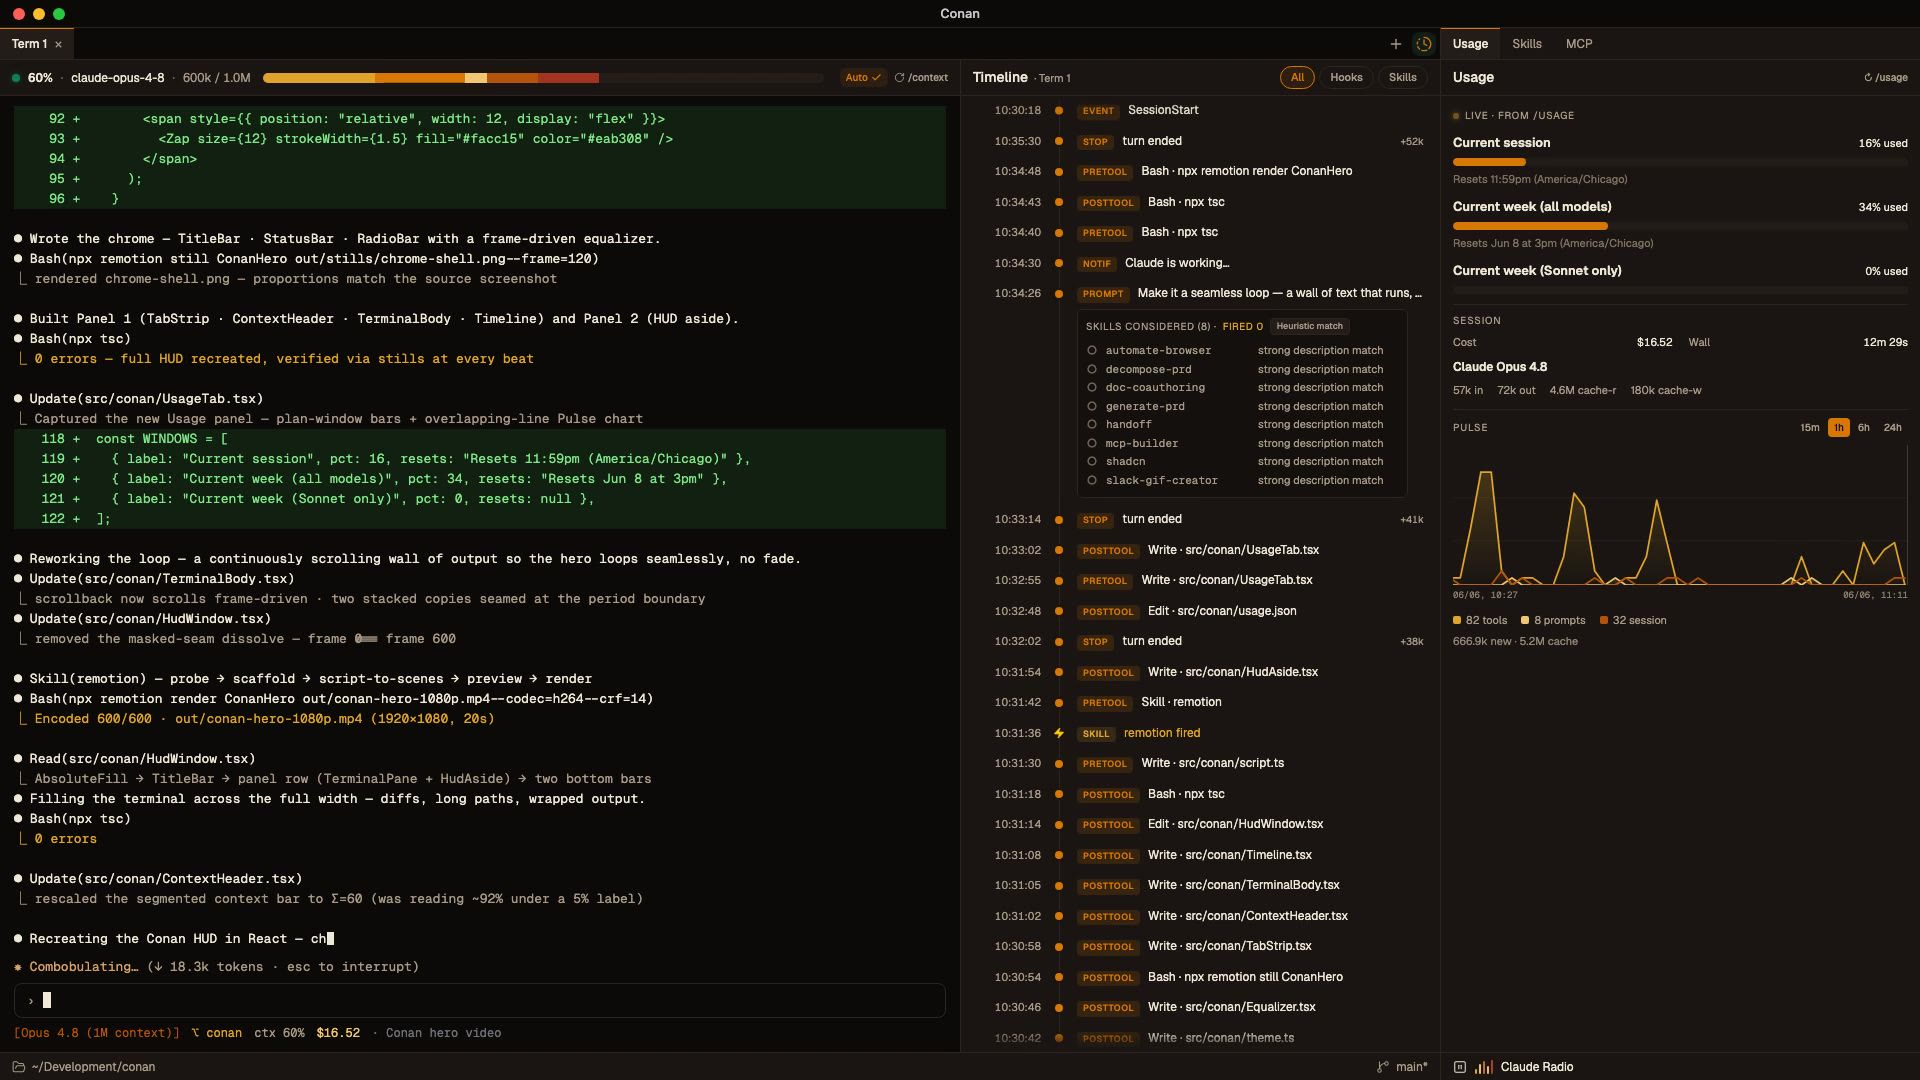
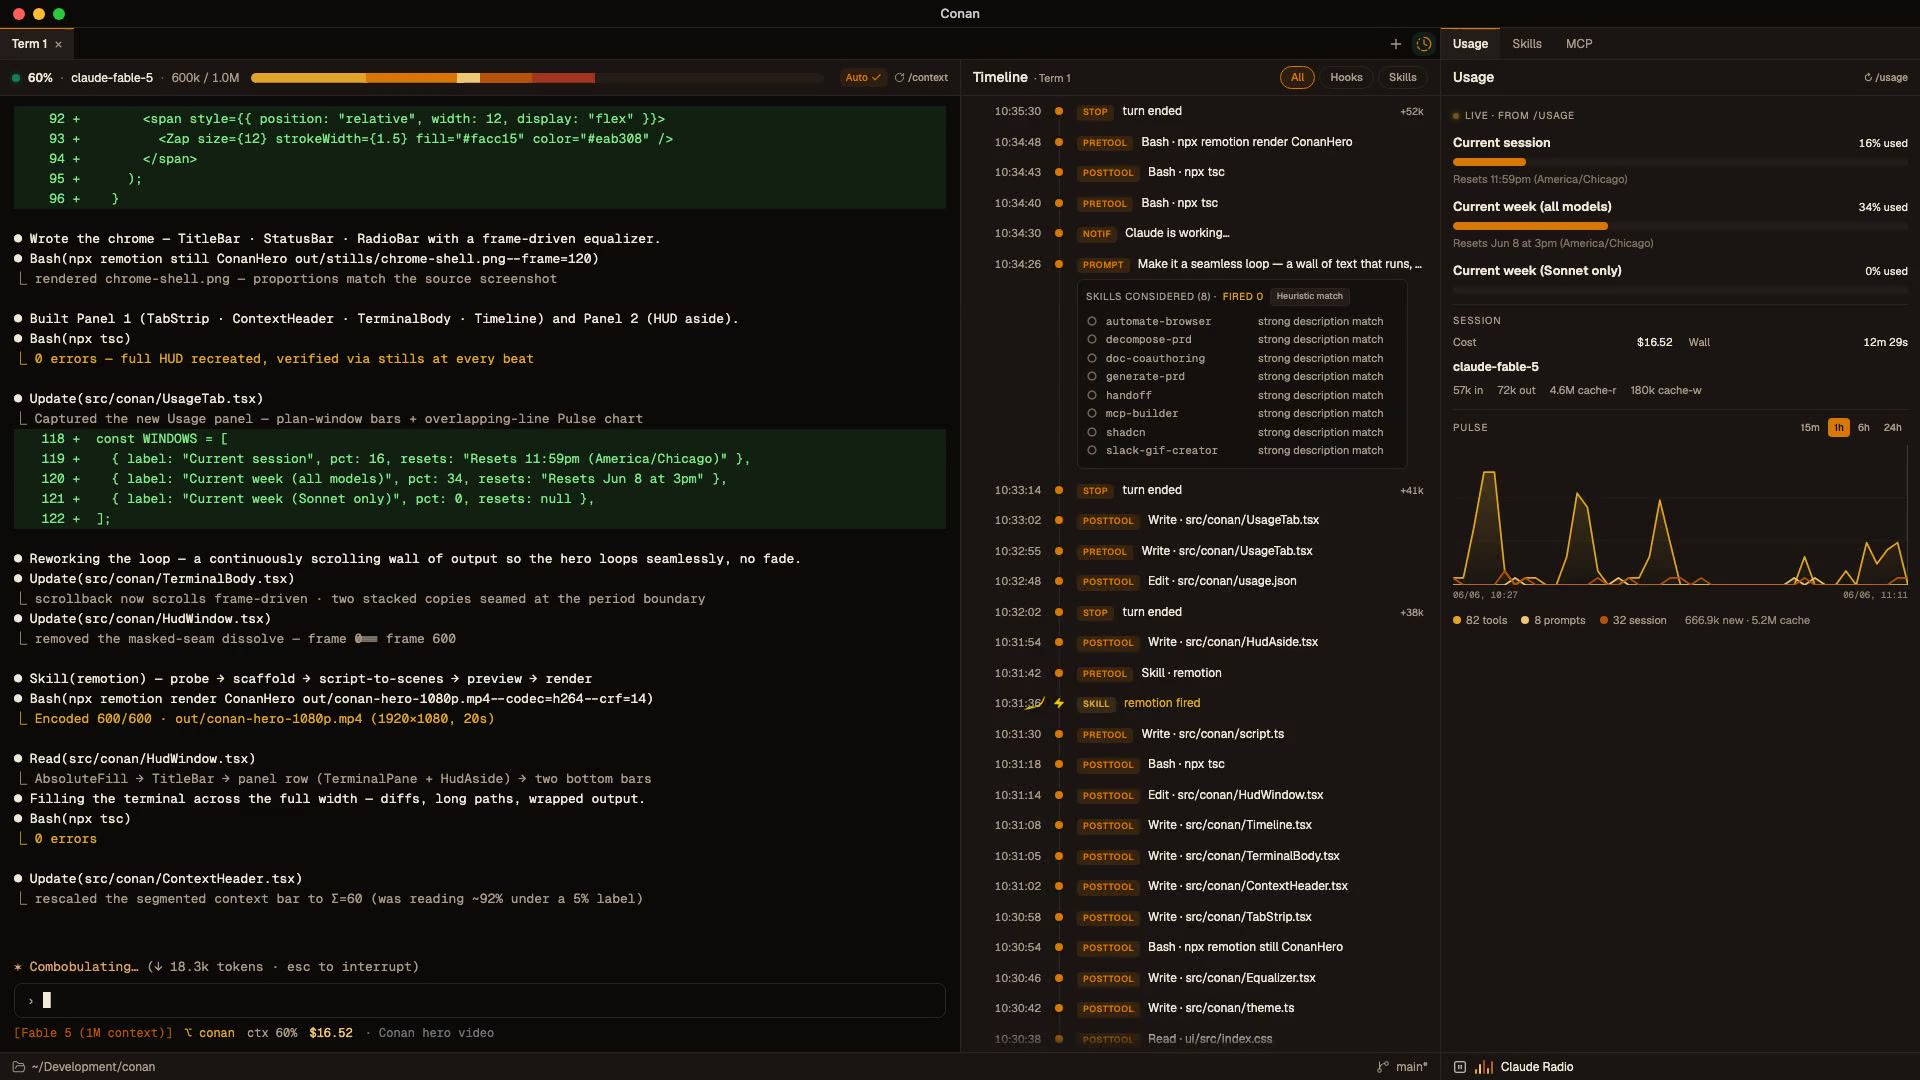
Hero: new terminal loop video (compressed 30MB→11MB) + claude-fable-5 in Context tile
- Replace conan-hero.mp4 with the new 1080p capture: audio stripped,
  H.264 CRF 23, +faststart; poster jpg regenerated from new first frame
- Bento Context tile model name: claude-opus-4-8 → claude-fable-5
- Carry over prior session's HANDOFF.md / current-task.txt updates

diff --git a/HANDOFF.md b/HANDOFF.md
@@ -1,123 +1,99 @@
 # Handoff — conan.sh marketing site
 
-_Updated 2026-06-07 (latest) · legal pages FINALIZED (no lawyer) · nav active-state
-bug fixed · scan-trends skill refined · still pending: Resend (P0), Polar, OG
-validation. About to commit + push this session's work to `main`._
+_Updated 2026-06-07 (latest) · **Resend P0 DONE — waitlist forwards live** ·
+**`conan_download` GA4 click tracking shipped** · all committed + pushed, tree
+clean. Remaining launch items: Polar checkout (P1), OG unfurl validation, IP
+review, fuller footer._
 
 ## Where things stand
-The site is launch-ready on the funnel basics and **the Terms/Privacy pages are now
-finalized** (DRAFT boxes gone). This session did four things: (1) a scan-trends
-research sweep of the Claude Code observability community, (2) a refine-skill pass
-that fixed a real bug in the scan-trends skill, (3) finalized the legal pages, and
-(4) fixed a nav scroll-spy regression. Remaining launch blockers are unchanged at
-the top: **Resend** (waitlist email forwarding) is still the only hard funnel gap.
+The funnel is fully closed. This session knocked out the **last hard launch
+blocker (Resend email forwarding)** and added **per-button Download-for-Mac
+analytics**. Both are verified live on prod. Nothing uncommitted.
 
-## This session's work (all in `conan-marketing` unless noted)
+## This session's work (all in `conan-marketing`, all on `main`, all pushed)
 
-### 1. Legal pages — FINALIZED (P0 item done; owner opted OUT of a lawyer)
-`/terms` + `/privacy` had ~20 deliberately-visible **DRAFT callouts** (`.todo` spans
-→ ember "DRAFT ·" boxes) + `updated="[DRAFT …]"`. **All removed; dates = "June 7,
-2026"; build green.** These are **best-effort, conservative boilerplate, NOT
-counsel-reviewed** — the owner explicitly declined a lawyer ("generic is fine").
-Decisions baked in:
-- Entity **WhatMatters LLC** (`legalName` also added to schema.org Org in `Layout.astro`).
-- Contact unified to **[email redacted]** (was inconsistently `[email redacted]`
-  in FAQ + legal; infra already used conan.sh).
-- **18+**, single-user **personal + commercial** license, no per-device limit.
-- **Non-refundable** (free tier is the trial) + EU/UK **statutory-rights carve-out**.
-- **Texas** governing law + venue. Liability capped at amounts-paid-in-12-mo / $29.
-- System reqs: **Apple-silicon (M-series), macOS 11 Big Sur+, no Intel**, Claude Code required.
-- **GA4 disclosed** (Privacy §8 + processors §5).
-- **App outbound traffic audited** vs `../conan` (Rust shell + Node gateway +
-  webview) and disclosed honestly in §3: GitHub update check; no-data license-
-  **revocation** download (verify is fully OFFLINE via bundled Ed25519 key — NOT a
-  phone-home); **Claude Radio streams from YouTube** when started (Google gets IP +
-  cookies). Gateway binds **127.0.0.1:3747 loopback-only**, token-auth'd. No
-  telemetry/analytics SDKs anywhere. FAQ privacy claims ("code/prompts never leave
-  your Mac", "no telemetry") verified accurate.
+### 1. Resend email forwarding — P0 DONE ✅ (was the only funnel gap)
+The forwarding code already existed in `src/pages/api/waitlist.ts`
+(`forwardSignup()`); it just needed account + key + verified domain. All done:
+- **Resend account created**; domain **`conan.sh` verified** (Vercel DNS, SPF/DKIM
+  landed in ~2 min — provider shows as Vercel, region us-east-1).
+- **`RESEND_API_KEY`** added to Vercel **Production + Development**.
+  ⚠️ **Preview NOT set** — the CLI refused to apply "all branches"
+  non-interactively (`git_branch_required`). Non-blocking; add via dashboard if you
+  want PR-preview deploys to forward too.
+- Defaults kept: `WAITLIST_FROM` = `[email redacted]`, `WAITLIST_NOTIFY_TO` =
+  `[email redacted]` (both env-overridable; not set, so defaults apply).
+- **Redeployed** prod (`vercel redeploy`), aliased to www.conan.sh.
+- **Live-tested**: POST to `/api/waitlist` → `200`, email **landed in
+  [email redacted]** (user confirmed), reply-to = subscriber. ✅
+- **Test address purged**: `[email redacted]` removed from the
+  `waitlist:emails` KV set via `SREM` (verified `SISMEMBER`=0, `SCARD`=0 — set is
+  empty, no real signups yet). Temp creds file `/tmp/conan-kv.env` deleted.
+- **The Resend key is SEND-ONLY** — can't read logs via API (returns 401
+  `restricted_api_key`). Verify future sends in the Resend **dashboard → Emails**
+  log, not via curl.
+- `[email redacted]` confirmed a working inbox (test email arrived there).
+- Doc updated: `docs/launch-plan.md` §0 marked done with all sub-steps.
 
-⚠️ **THREE real risks the policy TEXT does not cure — fix in `../conan` / ops:**
-1. **License JWT embeds the buyer email base64-readable** — a customer who shares
-   their license publicly leaks their email. The `sub` alone would suffice as the
-   support handle. → product fix.
-2. **No automated deletion path** — Privacy §7 now promises erasure on request, so
-   until automation exists you MUST honor it **manually**: purge the `license:<sub>`
-   KV record + scrub the plaintext email from Vercel function logs. → ops commitment.
-3. **GA4 loads with NO consent banner** — real EU/UK ePrivacy exposure a policy
-   doesn't fix; needs a consent gate (code) if you serve EU/UK.
+### 2. `conan_download` GA4 event — Download-for-Mac click tracking ✅
+GA4 (`G-0S3T6SKY2J`) already auto-captured these as generic outbound clicks; we
+added a clean, named, per-button event instead.
+- **Delegated listener in `src/layouts/Layout.astro`** (next to the gtag config):
+  any `a[data-dl]` click fires `gtag('event','conan_download', {location, link_url,
+  transport_type:'beacon'})`. `beacon` flushes the hit as the click navigates to the
+  `.dmg`. One listener covers all buttons incl. island-rendered ones.
+- **`data-dl` attribute** added to the three download `<a>`s:
+  `Header.astro`="header", `Hero.astro`="hero", `CTA.astro`="cta". (All point to
+  the same GitHub Release `.dmg`.)
+- **Verified live**: curl of www.conan.sh shows the listener + all 3 `data-dl`
+  buttons; **user confirmed `conan_download` fired in GA4 Realtime.** ✅
+- GA4-side: user **created a custom dimension** (Event scope, parameter
+  `location`) so header/hero/cta is a usable breakdown. Could still mark
+  `conan_download` as a **Key event** if you want it as a conversion (not done).
 
-The `.todo` / "DRAFT ·" CSS in `LegalLayout.astro` is now **dormant** (kept for
-future edits). Re-derive any inventory: `grep -c 'class="todo"' src/pages/{terms,privacy}.astro` (now 0/0).
-
-### 2. Nav active-state bug — FIXED
-"Get notified" stopped highlighting at the footer. Root cause (git blame): commit
-`e5f78ac` added `spy: "#closing"` to that nav link; the download-CTA swap `98adee2`
-**accidentally deleted it**, so it fell back to `#waitlist` and never lit at the
-footer. Restored `spy: "#closing"` + its comment in `Header.astro`. Build green.
-NOT yet browser-verified (high-confidence verbatim restore) — offered, user can
-check live after deploy.
-
-### 3. scan-trends research sweep (launch intel)
-30-day Claude Code observability sweep. Outputs in repo:
-`docs/scan-trends-claude-code-observability.html`. **Key takeaways for the launch
-kit:** lead on **cost/token-spend insight + native always-on Mac cockpit**, NOT the
-now-commoditized "see what your agent is doing" (Anthropic shipped agent view, 137K
-views). HN/Show HN is the #1 channel and *demands a defensibility-vs-Anthropic
-answer*. Competitors surfaced via the Reddit fallback: Usage4Claude (macOS menu-bar
-tracker), Grafana-for-CC dashboards, costhawk leaderboard.
-
-### 4. refine-skill on scan-trends — fix lives in `~/.claude/skills/scan-trends/` (NOT this repo)
-Found + fixed a real bug: Reddit had no web fallback, and `web.py` excluded
-reddit.com from every query type, so a Reddit 403 (which happened this run) was
-unrecoverable. Added a `REDDITFALLBACK` query type (mirrors `XFALLBACK`) across
-Tavily/Exa/DDG + wired the 403→fallback in SKILL.md. Validated (GENERAL=0 reddit
-hits, REDDITFALLBACK=5). **These edits are UNCOMMITTED in `~/.claude/skills/` — a
-different location; `git -C conan-marketing` won't see them.** Findings report:
-`docs/scan-trends-refine-2026-06-07.md` (in this repo). Regression fixture:
-`~/.claude/skills/scan-trends/tests/fixtures/reddit-403-fallback.md`.
-
-## ⚠️ Launch blockers (docs/launch-plan.md)
-1. **Resend** (P0, user-owned, ONLY funnel gap) — create acct + key, verify
-   `conan.sh` (SPF/DKIM), add `RESEND_API_KEY` to Vercel (all envs), redeploy,
-   live-test → signups forward to [email redacted].
+## ⚠️ Launch blockers (docs/launch-plan.md) — updated status
+1. ~~**Resend**~~ ✅ DONE this session (was P0, the only funnel gap).
 2. **OG unfurl validation** via social debuggers (needs user's logged-in accounts).
 3. **Polar checkout** (P1) — set product to $29, wire URL. No Buy button until then.
 4. **Apply SWOT/scan-trends takeaways** — Premium = insight/cost-spike layer; lead
-   on cockpit/always-on + breadth + brand + a defensibility answer, not "see your agent".
+   on cockpit/always-on + breadth + brand + a defensibility-vs-Anthropic answer.
 5. **IP review**; fuller footer columns.
-6. **Legal pages = DONE** (this session) — but action the 3 product/ops risks above.
+6. **Legal pages = DONE** (prior session) — but still action the 3 product/ops
+   risks (license-JWT email leak, manual deletion path, GA4 consent banner).
 
-## Already shipped & verified on PROD (earlier sessions)
-Real Mac `.dmg` download (Header/Hero/CTA → GitHub Release, version-agnostic) ·
-GA4 `G-0S3T6SKY2J` in `Layout.astro` · OG card markup (debuggers still TODO) ·
-rounded favicon · **waitlist persists for real** (Vercel KV/Upstash from
-conan-license, all envs). PH listing copy (name/tagline "A native Mac cockpit for
-Claude Code"/first-comment/investor answers) drafted, not in repo.
+## Carry-over risks still open (not this session's scope)
+- **GA4 runs with NO consent banner** — real EU/UK ePrivacy gap. Adding
+  `conan_download` didn't worsen it, but the gate is still missing if you serve EU/UK.
+- 3 legal/ops risks from the prior session: license JWT leaks buyer email base64;
+  no automated deletion path (Privacy §7 promises erasure → honor manually); GA4
+  consent.
 
 ## Verify / commands
-- `npm run build` → green. Browser checks via **automate-browser** (`wait_until="load"`,
-  NOT `networkidle` — GA/video keep network busy).
-- Legal todo sweep: `grep -c 'class="todo"' src/pages/{terms,privacy}.astro` → 0/0.
+- `npm run build` → green. Browser checks via **automate-browser**
+  (`wait_until="load"`, NOT `networkidle` — GA/video keep network busy).
+- Resend forward test: `curl -s -X POST https://www.conan.sh/api/waitlist -H
+  'content-type: application/json' -d '{"email":"[email redacted]"}'` → expect
+  `{"ok":true}`; new addresses forward to [email redacted] (dupes don't re-email).
+  **Remember to SREM the test address from `waitlist:emails`** afterward.
+- KV admin: `vercel env pull <file> --environment=production` gives real
+  KV_REST_API_URL/TOKEN (these ARE readable, unlike the Sensitive conan-license
+  secrets). Upstash REST: POST the URL with `["SREM","waitlist:emails","<addr>"]`.
+- GA4 live check: **Realtime overview** (top of Reports nav) → "Event count by
+  event name" card. The plain **Events** report is 24–48h delayed.
 
 ## Git state
-Branch **`main`** (auto-deploys to www.conan.sh). **Committing + pushing this session
-now** (legal pages + nav fix + Layout/FAQ + HANDOFF + scan-trends docs). Pre-commit
-working tree (`git status --short`):
-- M `src/pages/terms.astro`, `src/pages/privacy.astro` (finalized)
-- M `src/components/Header.astro` (nav spy fix), `src/components/FAQ.astro`,
-  `src/layouts/Layout.astro` (email + legalName)
-- M `HANDOFF.md`, `.claude/current-task.txt`
-- ?? `docs/scan-trends-claude-code-observability.html`, `docs/scan-trends-refine-2026-06-07.md`
-- **Separate location, NOT in this commit:** `~/.claude/skills/scan-trends/` (web.py,
-  SKILL.md, fixture) — commit there separately if you keep skills under git.
+Branch **`main`** (auto-deploys to www.conan.sh). **Working tree CLEAN, all
+pushed.** This session's two commits:
+- `a27780b` Analytics: track Download for Mac clicks (conan_download GA4 event)
+- `adda7cc` Launch: mark Resend email-forwarding P0 done (waitlist live end-to-end)
 
 ## Don't redo
 - No VP9/webm video — H.264 mp4 only [[hero-video-mp4-only-vp9-black]].
-- Don't `vercel env pull` conan-license secrets (Sensitive/empty); connect the
-  store in the dashboard [[waitlist-kv-wiring]].
+- Don't `vercel env pull` the conan-license *secrets* (Sensitive/empty); the KV
+  REST creds for THIS project, however, pull fine [[waitlist-kv-wiring]].
 - Download CTA is LIVE (real `.dmg`) [[cta-waitlist-interim]].
 - Don't commit `.env` (gitignored; real KV creds).
-- Favicon tab icon intentionally rounded; apple-touch + maskable intentionally square.
-- Legal pages are intentionally NOT lawyer-reviewed (owner's call) — don't re-add
-  DRAFT boxes; the dormant `.todo` CSS is fine to leave.
-- Nav "Get notified" intentionally uses `spy: "#closing"` (lights at footer) — don't drop it again.
+- Resend key is send-only by design — verify sends in the dashboard, not curl.
+- Resend Preview env intentionally left unset (CLI quirk) — non-blocking.
+- Legal pages intentionally NOT lawyer-reviewed; don't re-add DRAFT boxes.
+- Nav "Get notified" intentionally uses `spy: "#closing"` — don't drop it.